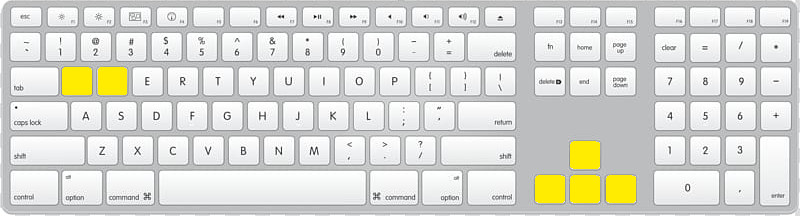
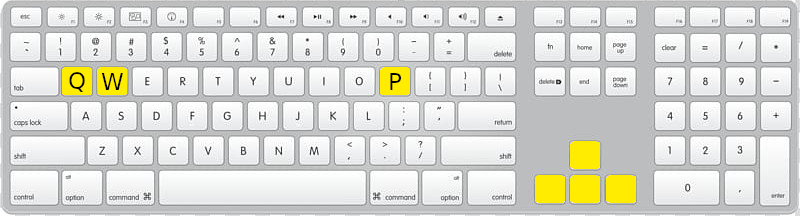
tutorial

Changed region(s): [[0.4688, 0.3056, 0.5312, 0.4444], [0.0625, 0.3333, 0.1562, 0.4167]]

diff --git a/player.cc b/player.cc
@@ -11,6 +11,7 @@ enum Action{none, kick, punch};
 class Player {
 
     private:
+        char costume = '1';
         Texture texture;
         int frame = 0;
         Action action = none;
@@ -52,14 +53,9 @@ class Player {
         int lx = -1;
         int speed = 5;
 
-        void load(int x, int y, char img){
+        void load(int x, int y, char costume){
             animate();
-            char path[] = "img/character/1.png";
-            path[14] = img;
-            if (!texture.loadFromFile(path));
-                texture.setSmooth(true);
-            sprite.setTexture(texture);
-            sprite.setScale(Vector2f(2, 2));
+            change(costume);
             sprite.setPosition(Vector2f(x, y));
         }
 
@@ -78,6 +74,18 @@ class Player {
 
         void use(Action a){
             action = a;
+        }
+
+        void change(char c='0'){
+            char path[] = "img/character/1.png";
+            if (c == '0')
+                c = ++costume;
+            path[14] = c;
+            cout << path << endl;
+            if (!texture.loadFromFile(path));
+                texture.setSmooth(true);
+            sprite.setTexture(texture);
+            sprite.setScale(Vector2f(2, 2));
         }
 
 

diff --git a/main.cc b/main.cc
@@ -24,7 +24,7 @@ float dt;
 void _load(){
 
     player = Player();
-    player.load(100, 39,'2');
+    player.load(100, 39,'1');
     tutorial.load();
 }
 
@@ -56,6 +56,9 @@ void _event(){
                         player.use(kick); break;
                     case Keyboard::W:
                         player.use(punch); break;
+                    // P
+                    case Keyboard::P:
+                        player.change(); break;
                 }
                 break;
             }
